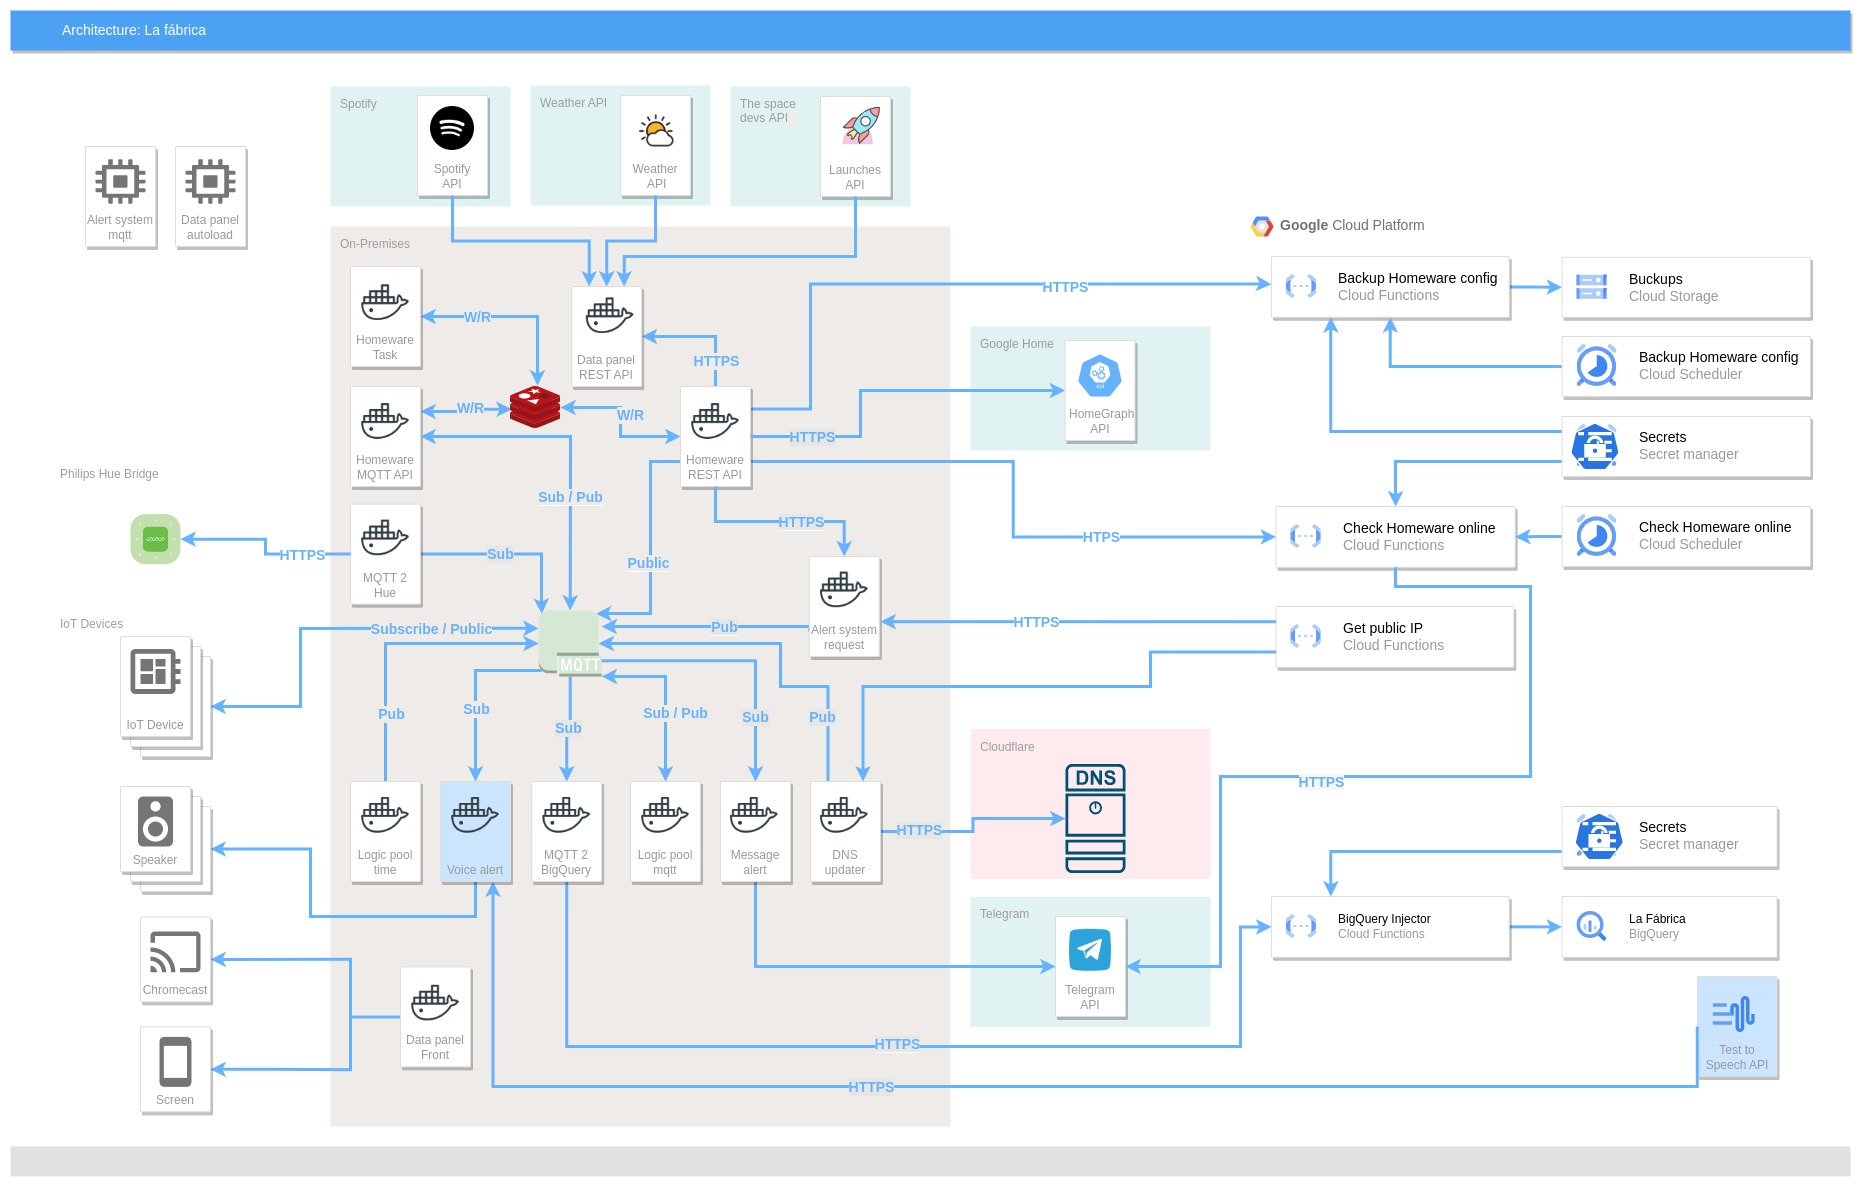
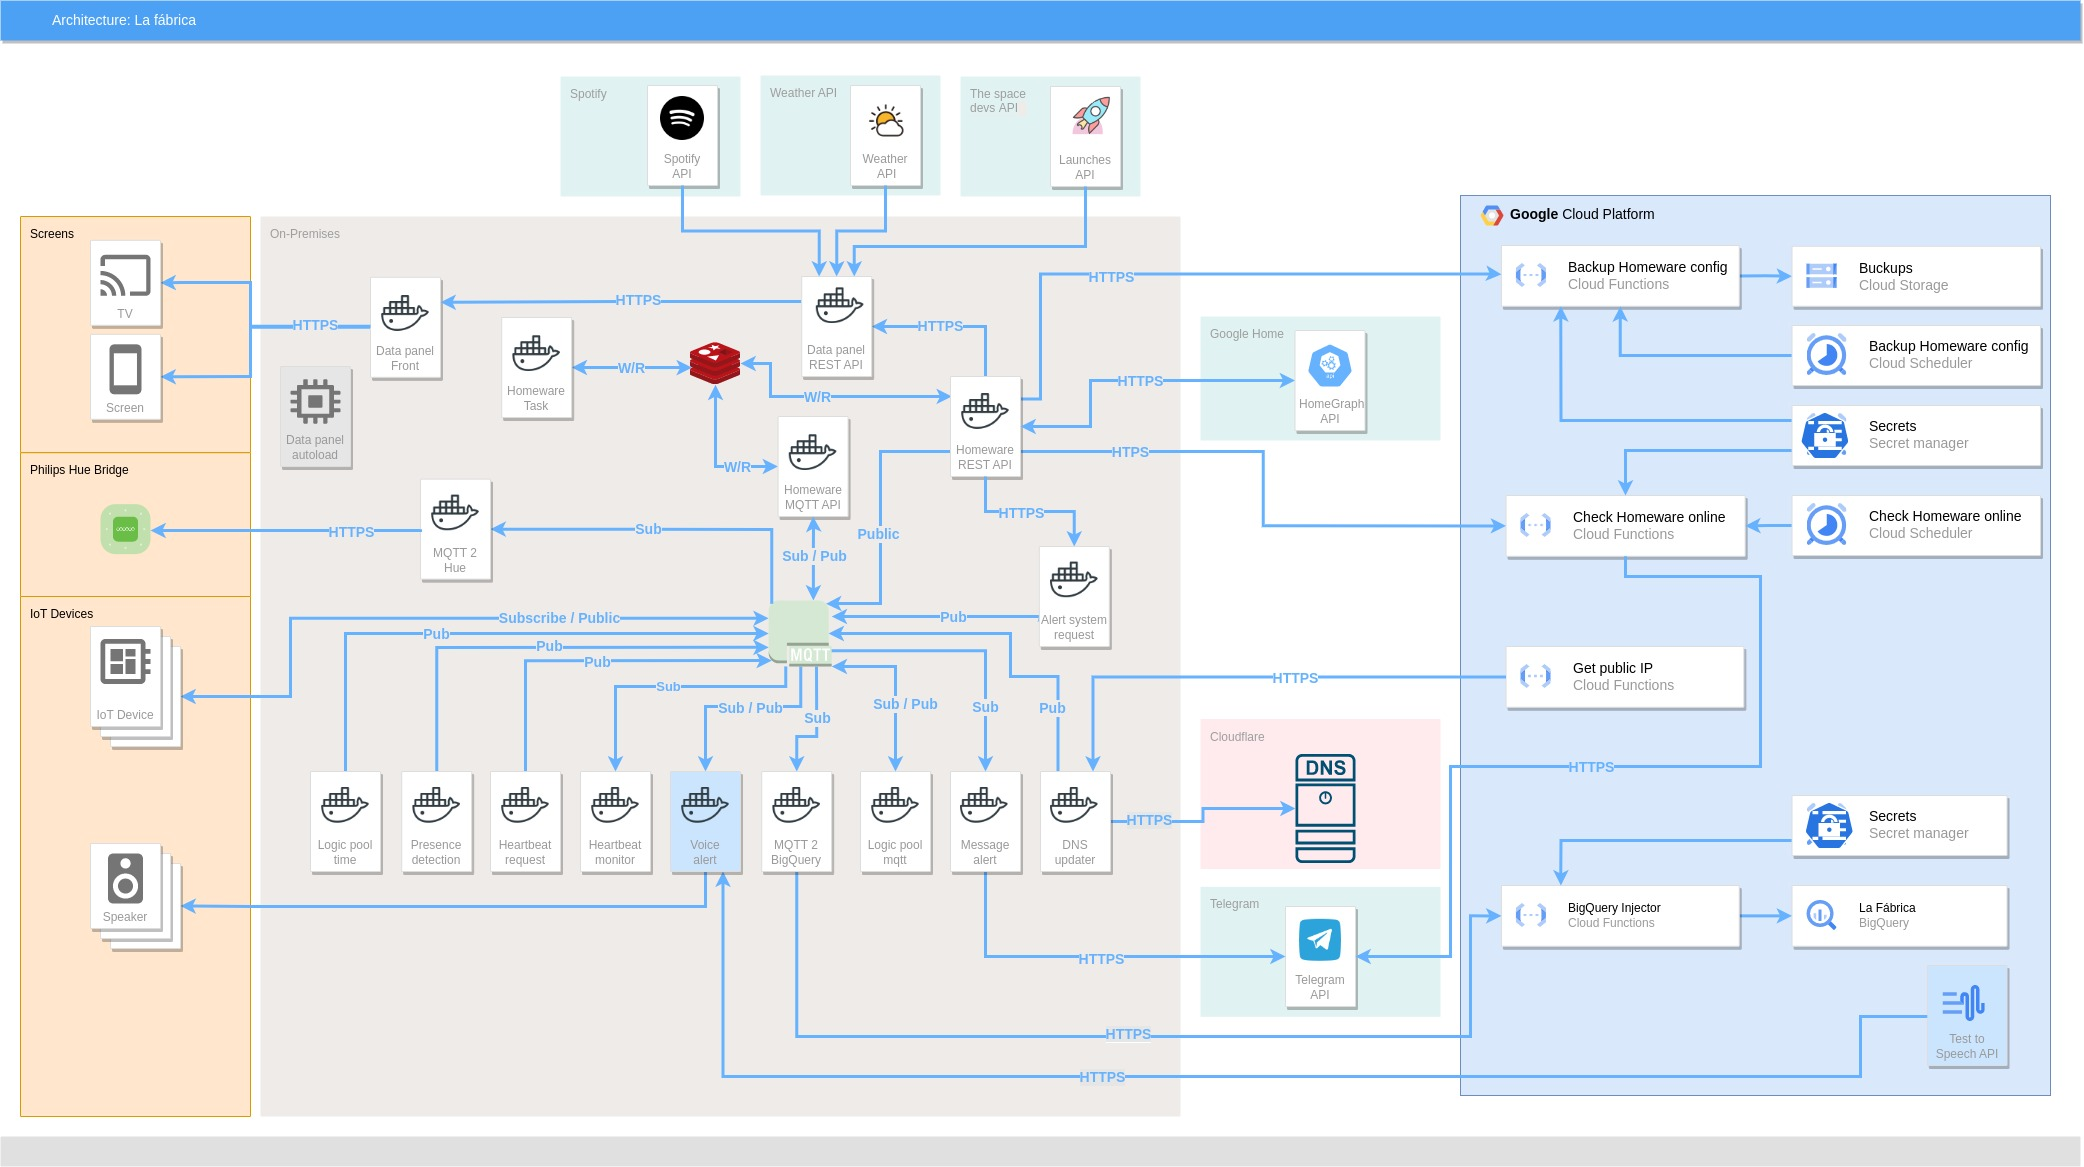
update docs

diff --git a/README.md b/README.md
@@ -13,7 +13,7 @@ This microservice is a REST API for the data dashboards. It request data to diff
 
 ### Data panel autoload
 
-This microservice forces the loading of the dashboard in a chromecast when not playing anything on it.
+This microservice forces the loading of the dashboard in a chromecast when not playing anything on it. Not in use at the moment.
 
 ### Data panel front
 
@@ -50,6 +50,14 @@ This microservice sends Homeware's data to Google Cloud BigQuery. It uses the Ho
 ### MQTT 2 Hue
 
 This microservice connects Homeware with a Philips Hue Bridge.
+
+### Presence detection
+
+An experiment in which I am trying to evaluate if it makes sense to decide if the house is empty using the IPs of critical devices.
+
+### Telegram bot
+
+A way to interact with the system via Telegram. It is not currently in use, but probably I will update it soon.
 
 ### Voice alert
 
